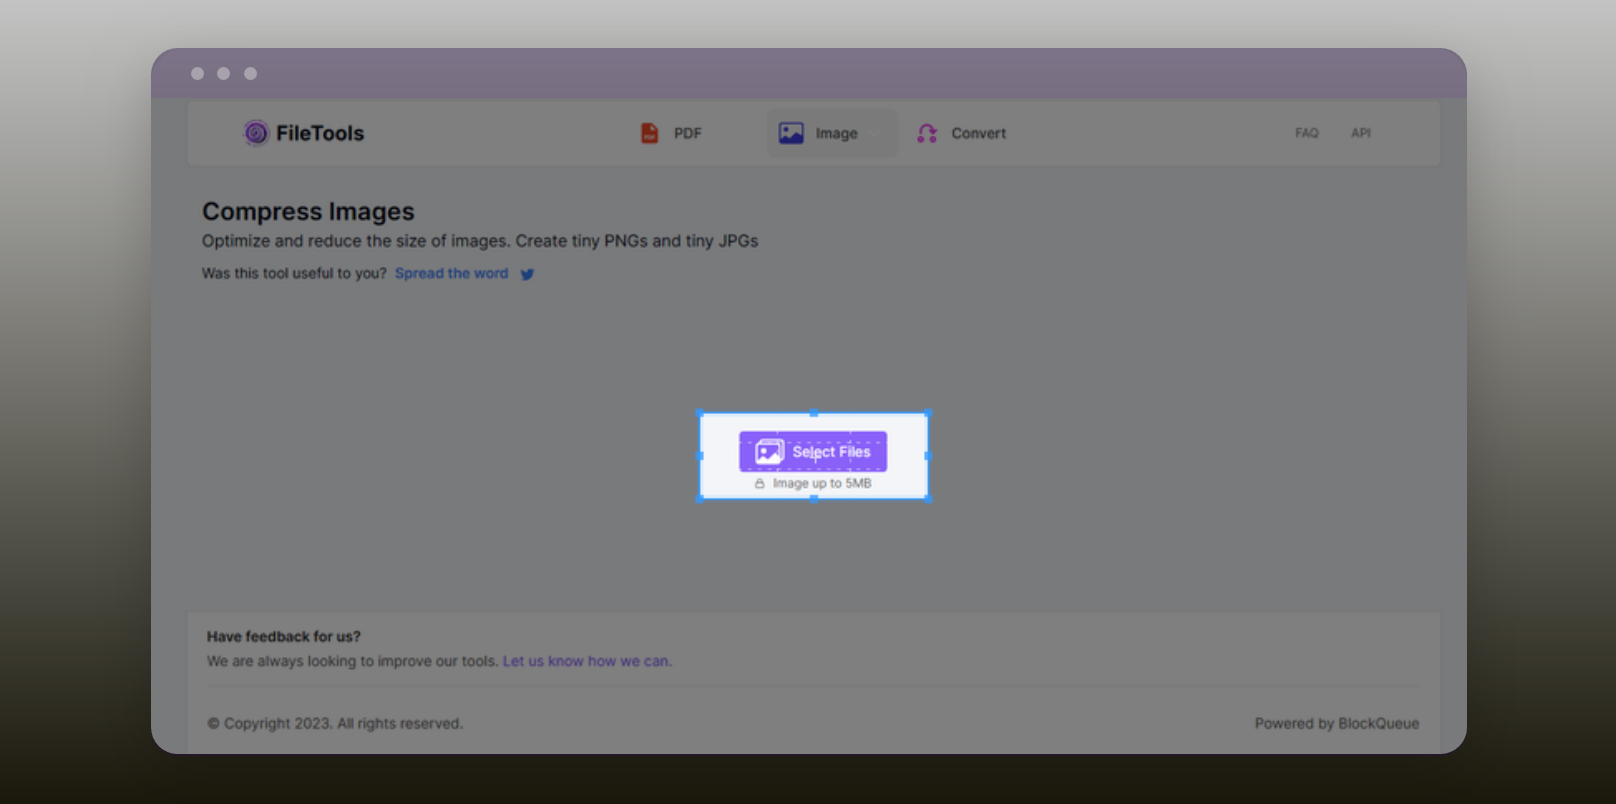
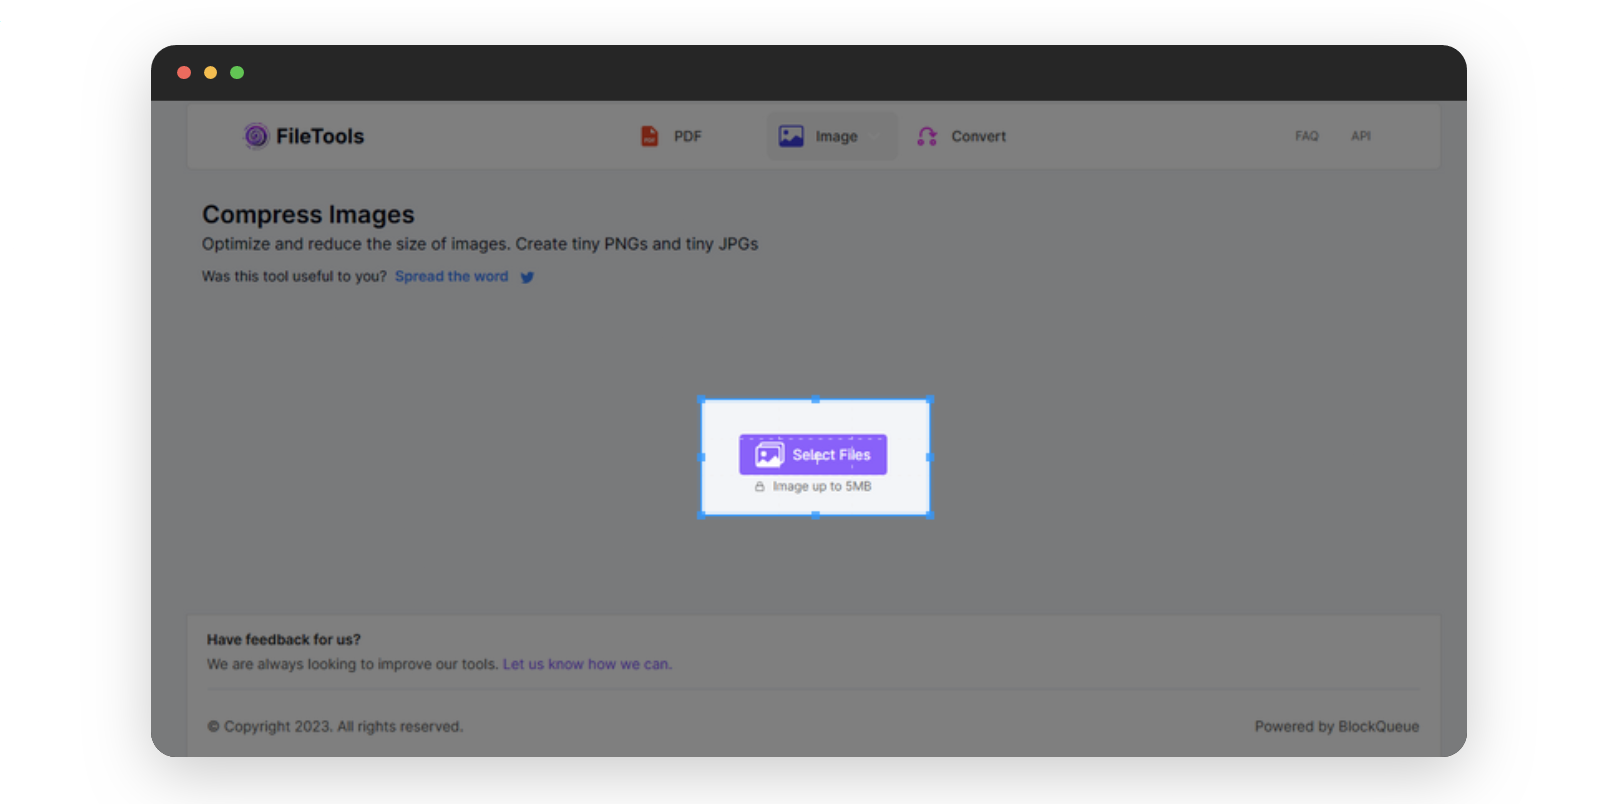
modified media for compress_image md

diff --git a/how_to/how_to_compress_images.md b/how_to/how_to_compress_images.md
@@ -35,7 +35,7 @@ Below is a step-by-step pictorial guide on how to use our online image compresso
 
     ![](../media/compress_2.png)
 
-- Select the image you wish to compress ...*I have selected this image which is nearly 3mb in size*
+- Select the image you wish to compress
 
     ![](../media/compress_3.png)
 
@@ -44,6 +44,8 @@ Below is a step-by-step pictorial guide on how to use our online image compresso
     ![](../media/compress_4.png)
 
 - or you can add more images to be compressed
+
+    ![](../media/compress_7.png)
 
     ![](../media/compress_5.png)
 

diff --git a/how_to/how_to_convert_images_to_pdf.md b/how_to/how_to_convert_images_to_pdf.md
@@ -23,7 +23,7 @@ Our online image to PDF converter is easy-to-use, supports diverse image formats
 
 Below is a step-by-step pictorial guide on how to use our online image to PDF converter:
 
-- Go to [theFileTools](https://www.thefiletools.com/)
+- Visit [theFileTools](https://www.thefiletools.com/) 
 
     ![](../media/home.png)
 

diff --git a/how_to/how_to_remove_background_of_images.md b/how_to/how_to_remove_background_of_images.md
@@ -25,7 +25,7 @@ You have access to a free, user-friendly, and instant online tool that effortles
 
 Below is a step-by-step guide on how to use our image background remover:
 
-- Visit [theFileTools](https://www.thefiletools.com/)
+- Visit [theFileTools](https://www.thefiletools.com/) 
 
     ![](../media/home.png)
 
